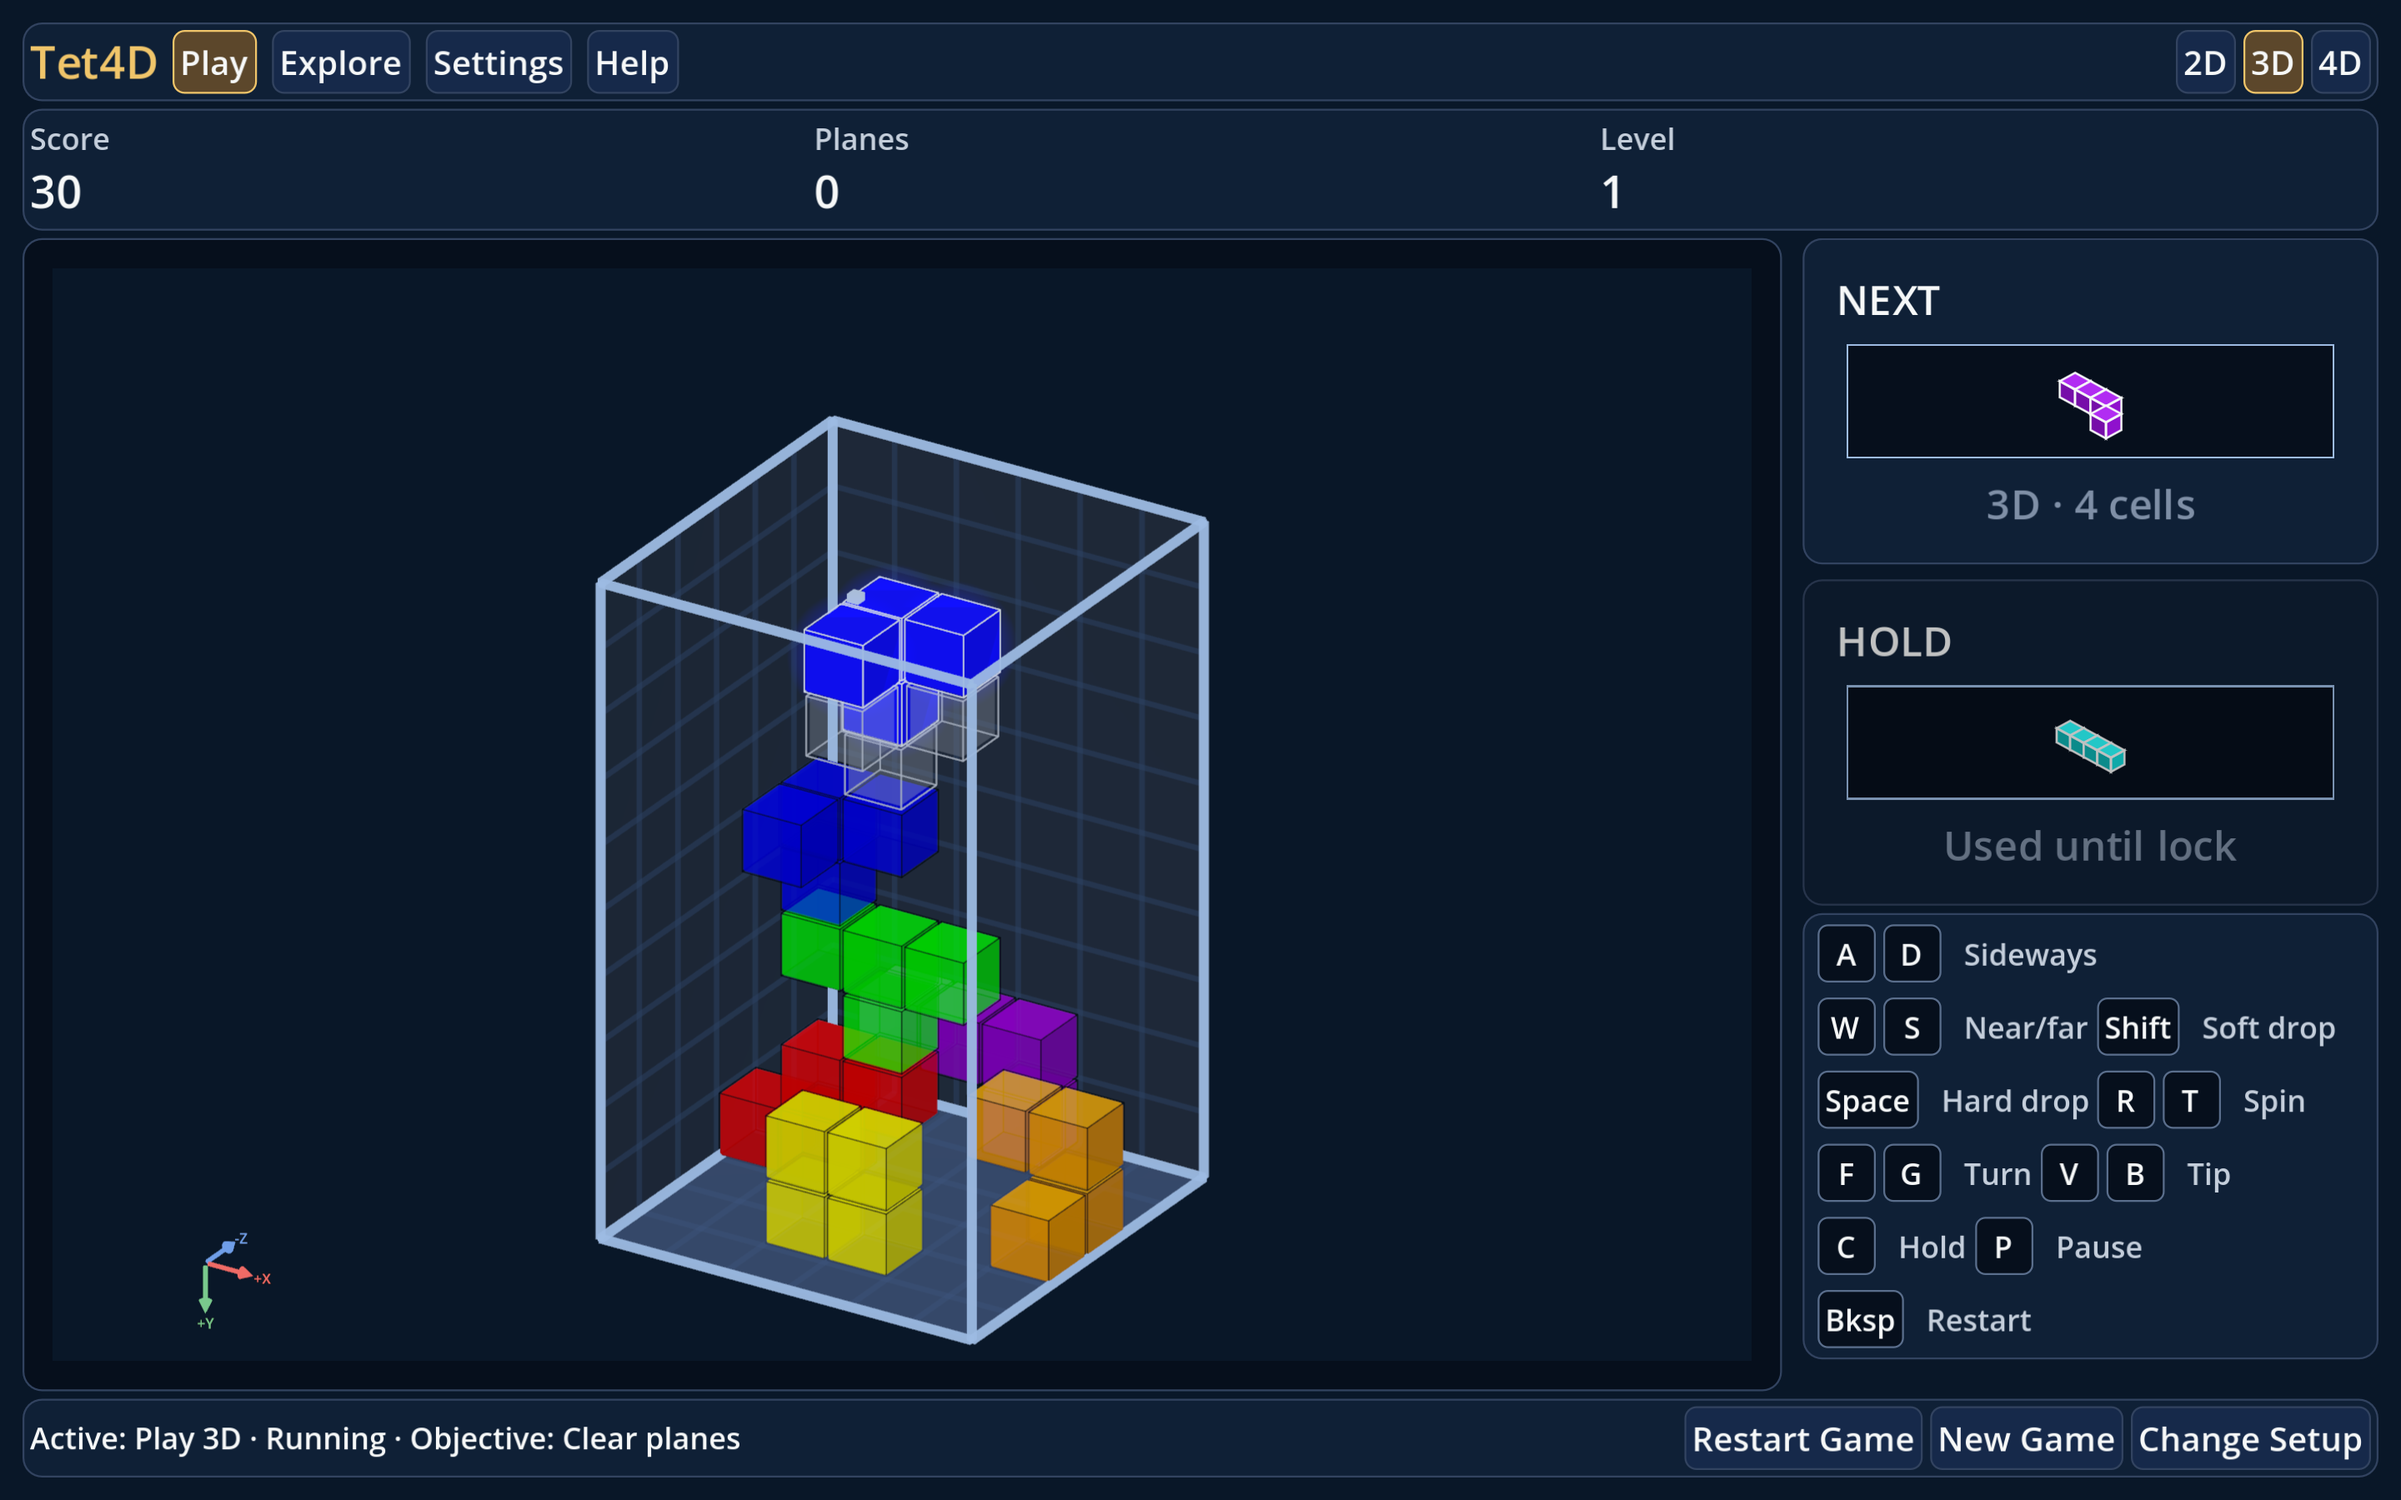
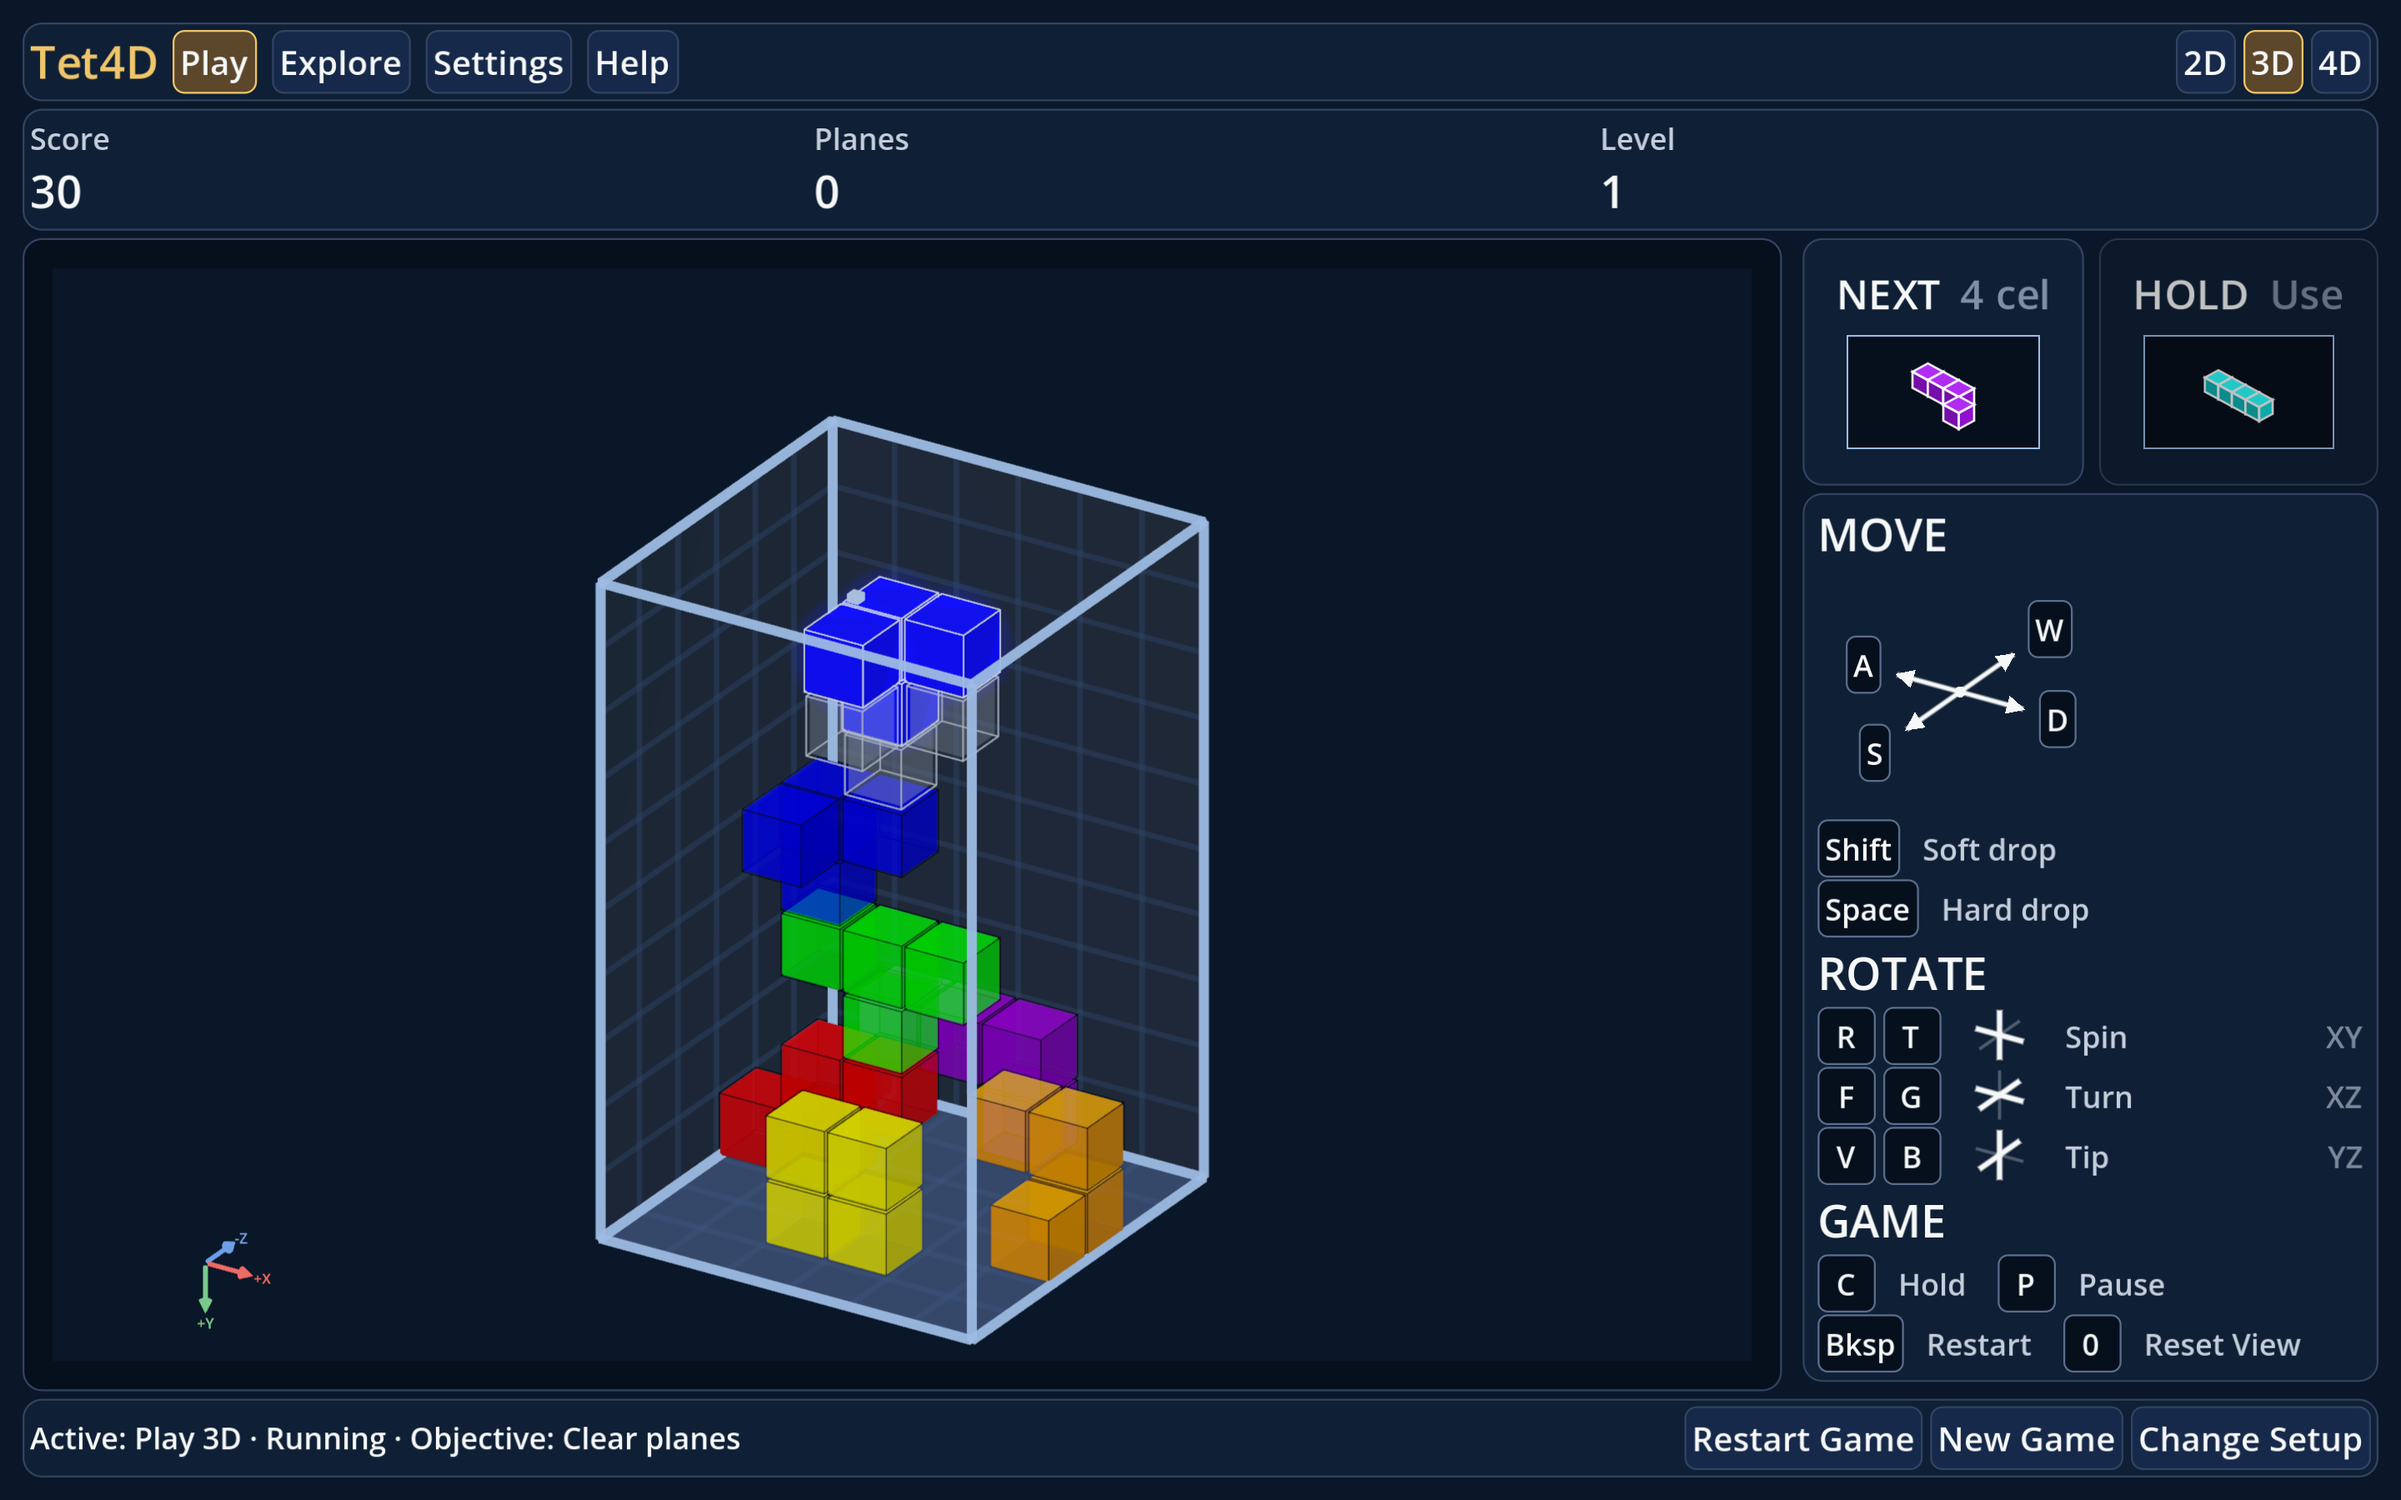
Restore the spatial legend in Concept B

Changed region(s): [[0.75, 0.4044, 1.0, 0.9333], [0.75, 0.1867, 0.9688, 0.3422], [0.75, 0.3422, 0.8125, 0.3733]]

diff --git a/CURRENT_STATE.md b/CURRENT_STATE.md
@@ -16,8 +16,8 @@ slice is implemented on `codex/graphical-language-p3` from `graphical-design`.
 P3 keeps the approved Concept A cockpit as the default and offers Concept B
 with header stats and side controls. Both keep separate W slices. P3 review follow-up covers board allocation,
 legend visibility and full-size capture evidence. The layout lock measures
-well outlines separately from camera-fit padding. Review is open on the
-compact Play legend versus the earlier compass and rotation glyphs.
+well outlines separately from camera-fit padding. The owner directed
+compact footer controls for A and grouped spatial controls for B.
 Explorer cockpit Phases 0–2 (lock, descriptor and independent input dispatch) are implemented and verified. CI work remains isolated in PR #185. 2D keyboard movement uses the shared mapper; tests pin camera-relative defaults and rear-view relative/absolute dispatch. Manual screen review remains pending.
 Owner debug reconnection uses compact 2D shell chrome and shared projected helper directions, omits the duplicate vertical row, and adds no functions; focused checks pass. Phases 3–6 and human visual acceptance remain open under `docs/plans/explorer_cockpit_unification.md`.
 Explorer T2A implements the native bounded/cylinder/torus translation candidate and permanent preservation suite described in `docs/architecture/explorer_topology_t2a_native_transport.md`. T1 PRs #172–#176 are the accepted baseline; remaining Correction 4B P2 findings stay deferred. T2B is integrated; the owner-authorized 2D surface candidate adds Möbius/Klein/projective, coherent rotations/Undo and compatibility two-chart S² under `docs/architecture/explorer_surface_runtime.md`. The topology-first amendment selects single-square `sphere_adjacent_positive` and probe semantics for Klein/RP²/S² (RDS §2.5); physical inverse recovery and geometric coherence do not gate translation; destination injectivity remains mandatory. Complete T2/T6 acceptance remains open. Runtime authority has not transferred. See `docs/BACKLOG.md` and `docs/architecture/explorer_topology_t2_transfer_preparation.md`.

diff --git a/docs/plans/graphical_language_adoption.md b/docs/plans/graphical_language_adoption.md
@@ -156,8 +156,10 @@ describes the older "calm instrument" look.
   owner-accepted rectangles, keeping its reachability, no-clipping, focus and
   small-window checks.
 - P3 review checks cover the projected well outline without spawn headroom
-  and complete legends at the standard capture window. The compact Play
-  legend is pending owner review for its compass and rotation glyph changes.
+  and complete legends at the standard capture window. The owner confirmed
+  compact footer controls for A and the grouped legend with MOVE compass and
+  rotation-plane glyphs and labels for B. Concept B pairs NEXT and HOLD
+  across one row in 3D/4D to fit the legend at standard scale.
   Full-size ready and seeded midgame captures show both layout choices.
   Smaller windows may scroll the helper deck.
 - Retire the `plain` and `tron` themes; keep `diagnostic` and High Contrast.

diff --git a/docs/BACKLOG.md b/docs/BACKLOG.md
@@ -32,7 +32,8 @@ Completed chronology is recoverable from Git, merged PRs, CI, and
 ## Active Work
 
 - P3 review: recover board height, lock standard-window legend visibility,
-  highlight Start and retain full-size Ready and seeded midgame evidence for both layouts.
+  highlight Start and retain full-size Ready and seeded midgame evidence for
+  both layouts, including the grouped spatial legend in Concept B.
 
 - Graphical language P3: implement direct cockpit launch with Play · 2D
   defaults, last Play/Explore view and dimension, and explicit Start in Play.

diff --git a/docs/design/screenshots/graphical_language_p3/README.md b/docs/design/screenshots/graphical_language_p3/README.md
@@ -14,5 +14,5 @@ Concept A on the left and Concept B on the right.
 | 4D | [Pair](layouts-4d.png) | [Full size](concept-a-4d.png) | [Full size](concept-b-4d.png) |
 
 The owner approved both cockpit arrangements, with Concept A as the default
-and separate W slices in both. These captures include the narrower controls
-legend added after that review.
+and separate W slices in both. Concept A keeps the compact footer. Concept B shows the grouped spatial
+legend in the side rail, with NEXT and HOLD paired above it in 3D and 4D.
